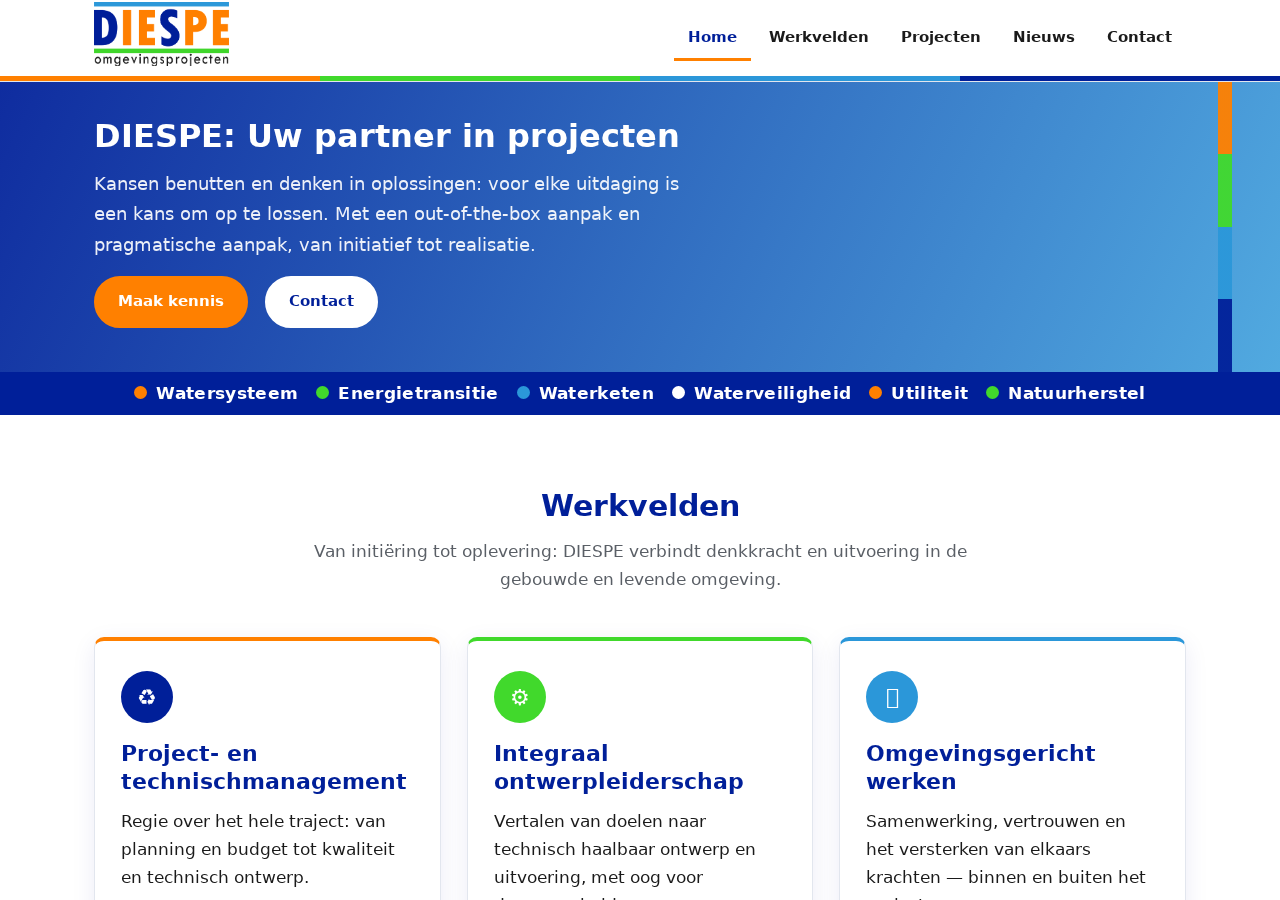
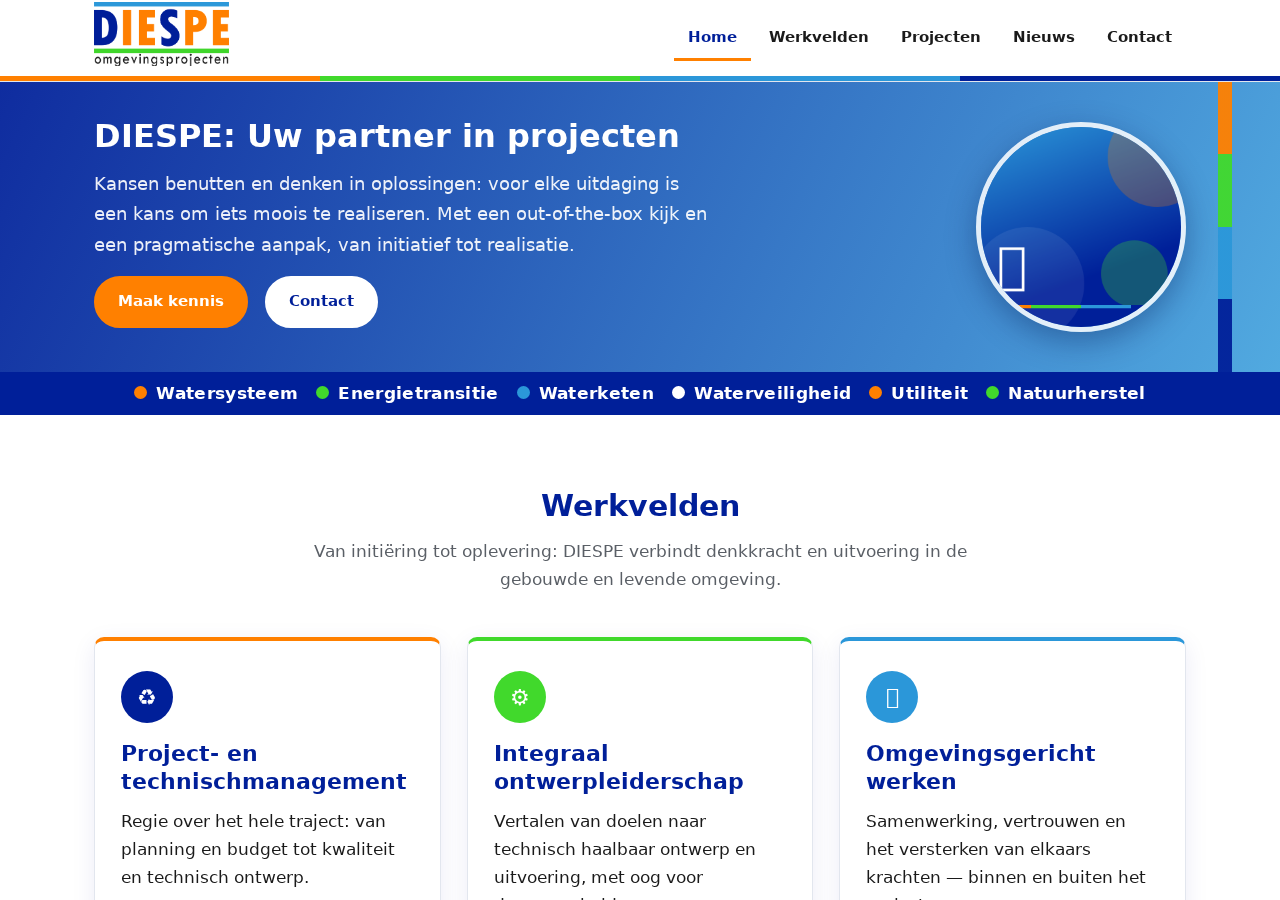
Hero: tekst herzien (geen dubbele aanpak) en ronde hero-afbeelding rechts toegevoegd

Changed region(s): [[0.75, 0.1244, 0.9375, 0.3733], [0.0625, 0.2178, 0.5625, 0.28]]

diff --git a/preview/index.html b/preview/index.html
@@ -37,11 +37,16 @@
 <main id="content" role="main">
 
 <section class="hero">
-  <div class="container">
-    <h1>DIESPE: Uw partner in projecten</h1>
-    <p>Kansen benutten en denken in oplossingen: voor elke uitdaging is een kans om op te lossen. Met een out-of-the-box aanpak en pragmatische aanpak, van initiatief tot realisatie.</p>
-    <a class="btn btn--accent" href="#">Maak kennis</a>
-    <a class="btn btn--white" href="#">Contact</a>
+  <div class="container hero-inner">
+    <div class="hero-text">
+      <h1>DIESPE: Uw partner in projecten</h1>
+      <p>Kansen benutten en denken in oplossingen: voor elke uitdaging is een kans om iets moois te realiseren. Met een out-of-the-box kijk en een pragmatische aanpak, van initiatief tot realisatie.</p>
+      <a class="btn btn--accent" href="#">Maak kennis</a>
+      <a class="btn btn--white" href="#">Contact</a>
+    </div>
+    <div class="hero-visual" aria-hidden="true">
+      <img src="hero-visual.png" alt="">
+    </div>
   </div>
 </section>
 

diff --git a/preview/style.css b/preview/style.css
@@ -270,6 +270,33 @@ p { margin: 0 0 1.2em; }
 
 .hero .container { position: relative; z-index: 1; }
 
+.hero-inner {
+  display: flex;
+  align-items: center;
+  gap: 48px;
+}
+.hero-text { flex: 1 1 auto; }
+
+.hero-visual {
+  flex: 0 0 auto;
+  width: 210px;
+  height: 210px;
+}
+.hero-visual img {
+  width: 100%;
+  height: 100%;
+  object-fit: cover;
+  border-radius: 50%;
+  border: 5px solid rgba(255, 255, 255, 0.85);
+  box-shadow: 0 10px 30px rgba(0, 20, 80, 0.35);
+  display: block;
+}
+
+@media (max-width: 900px) {
+  .hero-inner { flex-direction: column-reverse; gap: 18px; text-align: center; }
+  .hero-visual { width: 130px; height: 130px; }
+}
+
 .hero h1, .hero h2 {
   color: #fff;
   max-width: 22ch;

diff --git a/style.css b/style.css
@@ -270,6 +270,33 @@ p { margin: 0 0 1.2em; }
 
 .hero .container { position: relative; z-index: 1; }
 
+.hero-inner {
+  display: flex;
+  align-items: center;
+  gap: 48px;
+}
+.hero-text { flex: 1 1 auto; }
+
+.hero-visual {
+  flex: 0 0 auto;
+  width: 210px;
+  height: 210px;
+}
+.hero-visual img {
+  width: 100%;
+  height: 100%;
+  object-fit: cover;
+  border-radius: 50%;
+  border: 5px solid rgba(255, 255, 255, 0.85);
+  box-shadow: 0 10px 30px rgba(0, 20, 80, 0.35);
+  display: block;
+}
+
+@media (max-width: 900px) {
+  .hero-inner { flex-direction: column-reverse; gap: 18px; text-align: center; }
+  .hero-visual { width: 130px; height: 130px; }
+}
+
 .hero h1, .hero h2 {
   color: #fff;
   max-width: 22ch;

diff --git a/front-page.php b/front-page.php
@@ -9,13 +9,22 @@ get_header();
 ?>
 
 <section class="hero">
-	<div class="container">
-		<h1><?php esc_html_e( 'DIESPE: Uw partner in projecten', 'diespe' ); ?></h1>
-		<p>
-			<?php esc_html_e( 'Kansen benutten en denken in oplossingen: voor elke uitdaging is een kans om op te lossen. Met een out-of-the-box aanpak en pragmatische aanpak, van initiatief tot realisatie.', 'diespe' ); ?>
-		</p>
-		<a class="btn btn--accent" href="<?php echo esc_url( home_url( '/over-diederik-speksnijder/' ) ); ?>"><?php esc_html_e( 'Maak kennis', 'diespe' ); ?></a>
-		<a class="btn btn--white" href="<?php echo esc_url( home_url( '/contact/' ) ); ?>"><?php esc_html_e( 'Contact', 'diespe' ); ?></a>
+	<div class="container hero-inner">
+		<div class="hero-text">
+			<h1><?php esc_html_e( 'DIESPE: Uw partner in projecten', 'diespe' ); ?></h1>
+			<p>
+				<?php esc_html_e( 'Kansen benutten en denken in oplossingen: voor elke uitdaging is een kans om iets moois te realiseren. Met een out-of-the-box kijk en een pragmatische aanpak, van initiatief tot realisatie.', 'diespe' ); ?>
+			</p>
+			<a class="btn btn--accent" href="<?php echo esc_url( home_url( '/over-diederik-speksnijder/' ) ); ?>"><?php esc_html_e( 'Maak kennis', 'diespe' ); ?></a>
+			<a class="btn btn--white" href="<?php echo esc_url( home_url( '/contact/' ) ); ?>"><?php esc_html_e( 'Contact', 'diespe' ); ?></a>
+		</div>
+		<div class="hero-visual" aria-hidden="true">
+			<?php if ( get_theme_mod( 'diespe_hero_afbeelding' ) ) : ?>
+				<img src="<?php echo esc_url( get_theme_mod( 'diespe_hero_afbeelding' ) ); ?>" alt="">
+			<?php else : ?>
+				<img src="<?php echo esc_url( get_template_directory_uri() . '/assets/img/hero-visual.png' ); ?>" alt="">
+			<?php endif; ?>
+		</div>
 	</div>
 </section>
 

diff --git a/functions.php b/functions.php
@@ -175,6 +175,15 @@ function diespe_customize_register( $wp_customize ) {
 			'type'    => 'text',
 		) );
 	}
+
+	$wp_customize->add_setting( 'diespe_hero_afbeelding', array(
+		'default'           => '',
+		'sanitize_callback' => 'esc_url_raw',
+	) );
+	$wp_customize->add_control( new WP_Customize_Image_Control( $wp_customize, 'diespe_hero_afbeelding', array(
+		'label'   => __( 'Hero-afbeelding (ronde uitsnede)', 'diespe' ),
+		'section' => 'diespe_contact',
+	) ) );
 }
 add_action( 'customize_register', 'diespe_customize_register' );
 
